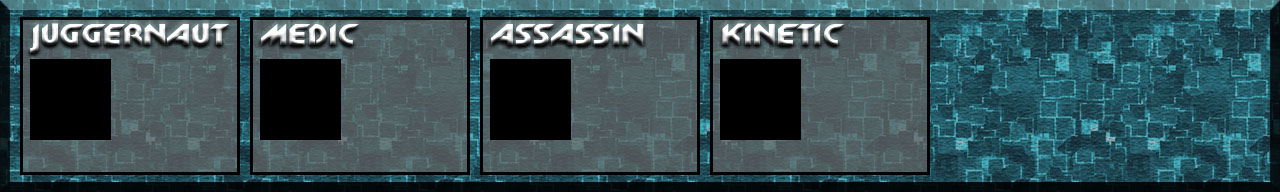
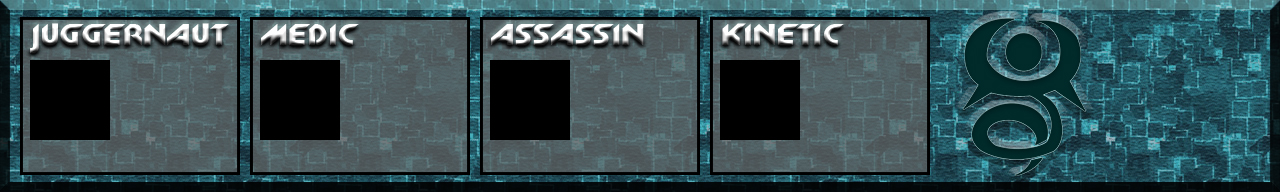
Завершил нижнее меню

diff --git a/Skeletal_Animation_Tutorial/src_animation/BottomMenu.h b/Skeletal_Animation_Tutorial/src_animation/BottomMenu.h
@@ -36,7 +36,7 @@ namespace CourseWork {
 		/////////////////   TEXTURES    /////////////////
 
 		CTexture *Texture;
-		TextureImage Textures[19];
+		TextureImage Textures[21];
 		
 
 		void InitTexture() {
@@ -65,6 +65,9 @@ namespace CourseWork {
 			Texture->LoadTexture(IL_PNG, "source/buttons/bottommenu/kin/Drag_in.png", &Textures[17]);
 			Texture->LoadTexture(IL_PNG, "source/buttons/bottommenu/kin/Drag_inPr.png", &Textures[18]);
 
+			Texture->LoadTexture(IL_PNG, "source/buttons/bottommenu/menu/MainMenu.png", &Textures[19]);
+			Texture->LoadTexture(IL_PNG, "source/buttons/bottommenu/menu/MainMenuPr.png", &Textures[20]);
+
 			Power.GetCoord(123, yUp - 84, 123 + Textures[1].width, yUp - 84 + Textures[1].height);
 			Provocation.GetCoord(123, yUp - 112, 123 + Textures[3].width, yUp - 112 + Textures[3].height);
 			Heal.GetCoord(353, yUp - 84, 353 + Textures[5].width, yUp - 84 + Textures[5].height);
@@ -74,6 +77,8 @@ namespace CourseWork {
 			Stun.GetCoord(813, yUp - 84, 813 + Textures[13].width, yUp - 84 + Textures[13].height);
 			Push.GetCoord(813, yUp - 112, 813 + Textures[15].width, yUp - 112 + Textures[15].height);
 			Drag_in.GetCoord(813, yUp - 140, 813 + Textures[17].width, yUp - 140 + Textures[17].height);
+
+			MainMenu.GetCoord(1110, yUp - 63, 1110 + Textures[19].width, yUp - 63 + Textures[19].height);
 
 			InitNumerals();
 		}
@@ -219,6 +224,15 @@ namespace CourseWork {
 				Drag_in.Draw(Textures[18]);
 			}
 
+			if (!MainMenu.isPressed)
+			{
+				MainMenu.Draw(Textures[19]);
+			}
+			else
+			{
+				MainMenu.Draw(Textures[20]);
+			}
+
 			DrawNumerals();
 
 			Mode.End2D();
@@ -260,6 +274,9 @@ namespace CourseWork {
 		Button Stun;
 		Button Push;
 		Button Drag_in;
+
+		Button MainMenu;
+		Button Inventory;
 
 		Button N11;
 		Button N12;

diff --git a/Skeletal_Animation_Tutorial/src_animation/Main.cpp b/Skeletal_Animation_Tutorial/src_animation/Main.cpp
@@ -930,7 +930,28 @@ void mouseButton(int button, int state, int x, int y) {
 						BtmM.Drag_in.isPressed = false;
 					}
 				}
+
+				if (BtmM.MainMenu.Press(x, y))
+				{
+					if (state == GLUT_DOWN)
+					{
+						BtmM.MainMenu.isPressed = true;
+					}
+					else
+					{
+						BtmM.MainMenu.isPressed = false;
+						MM.isVisible = true;
+					}
+				}
+				else
+				{
+					if (state == GLUT_UP)
+					{
+						BtmM.MainMenu.isPressed = false;
+					}
+				}
 			}
+
 			if (WL.isVisible == true)
 			{
 				if (WL.WinMenu.Press(x, y))
@@ -1000,6 +1021,7 @@ void mouseButton(int button, int state, int x, int y) {
 				else
 				{
 					WL.LoseExit.isPressed = false;
+					
 				}
 			}
 			else
